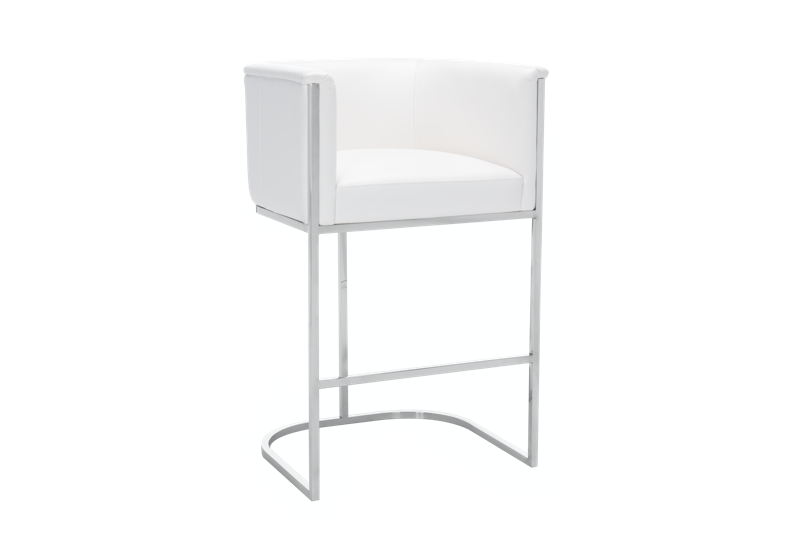
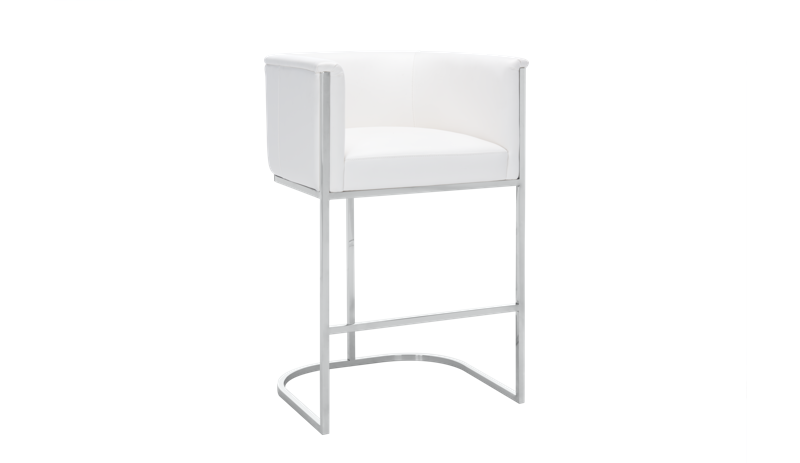
Updated detailed images to right size and updated README for size photo details

Changed region(s): [[0.2812, 0.121, 0.6875, 0.9374]]

diff --git a/README.md b/README.md
@@ -1,6 +1,6 @@
 # portfolio2026
 
+photographer portfolio
 Square images: 500 x 500 px
 Full images: 1000 px on longest side
-Detail images: 1200 x 695 px
-Background cover image: 1920 x 1080 px
+Detail images: 800 x 463 px
